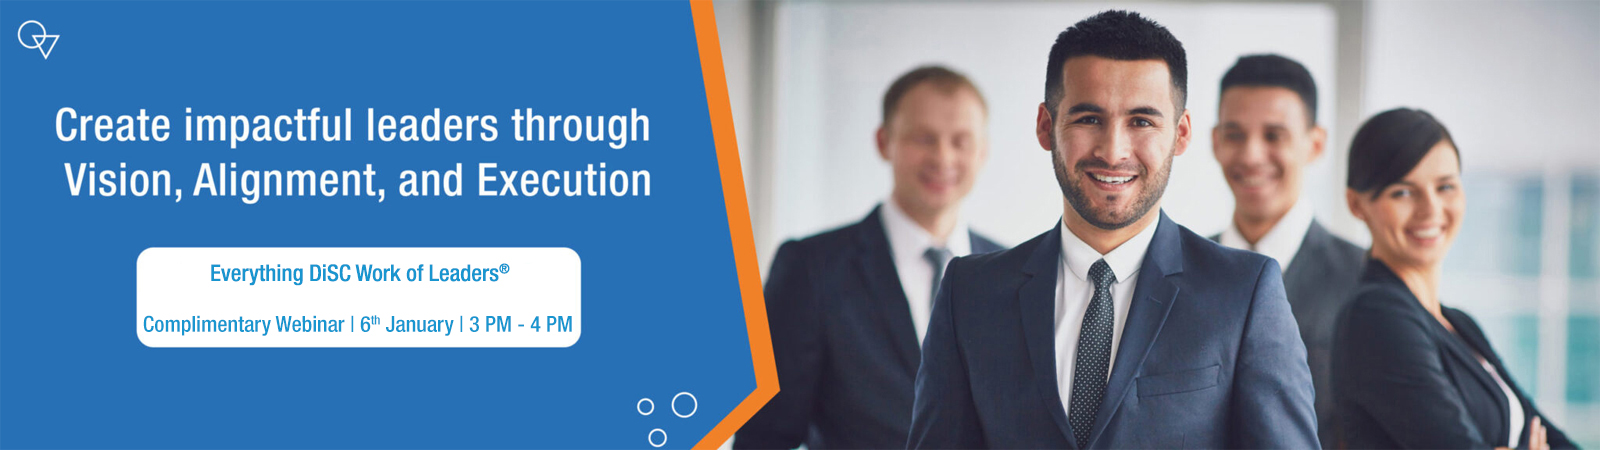
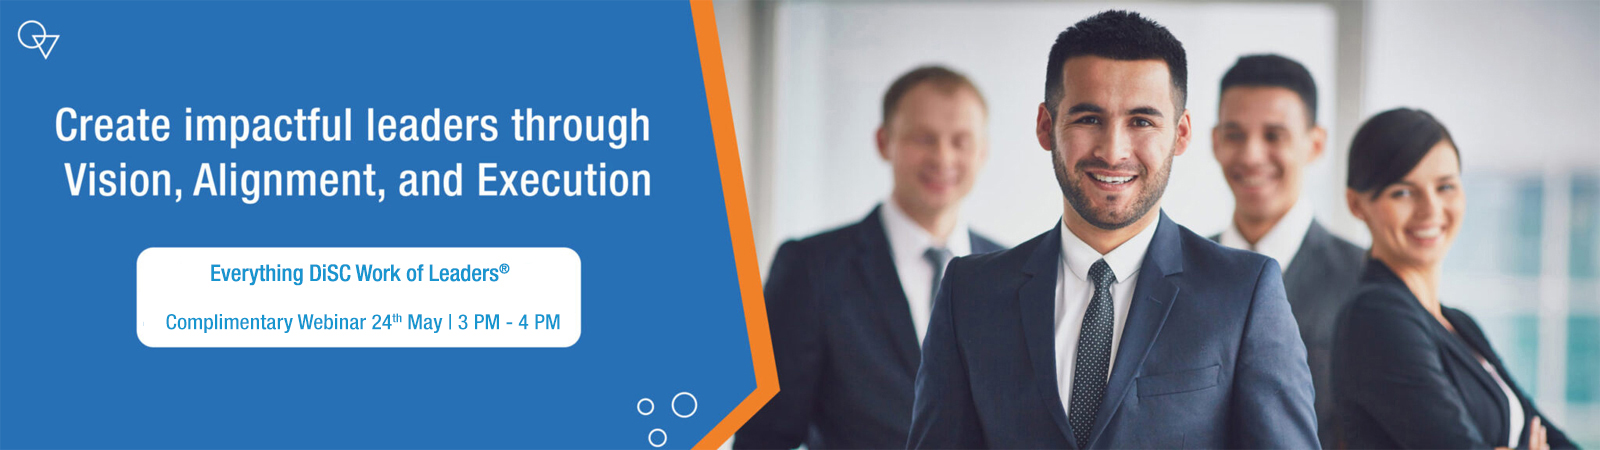
ch

Changed region(s): [[0.0938, 0.6844, 0.375, 0.7467]]

diff --git a/pages/everythingdisc/everything-disc-work-of-leaders-webinar.js b/pages/everythingdisc/everything-disc-work-of-leaders-webinar.js
@@ -124,7 +124,7 @@ export default function EDSalesWorkshop() {
                                             <div className="col-sm-6 mb-12">
                                                 <select name="slot" required>
                                                     <option value="">Pick up any Slot*</option>
-                                                    <option value="January 6th, 2023 Everything DiSC Work of Leaders Webinar">January 6th, 2023 Everything DiSC Work of Leaders Webinar</option>
+                                                    <option value="May 24th, 2023 Everything DiSC Work of Leaders Webinar">May 24th, 2023 Everything DiSC Work of Leaders Webinar</option>
                                                 </select>
                                             </div>
                                             <div className="col-sm-6 mb-12">
